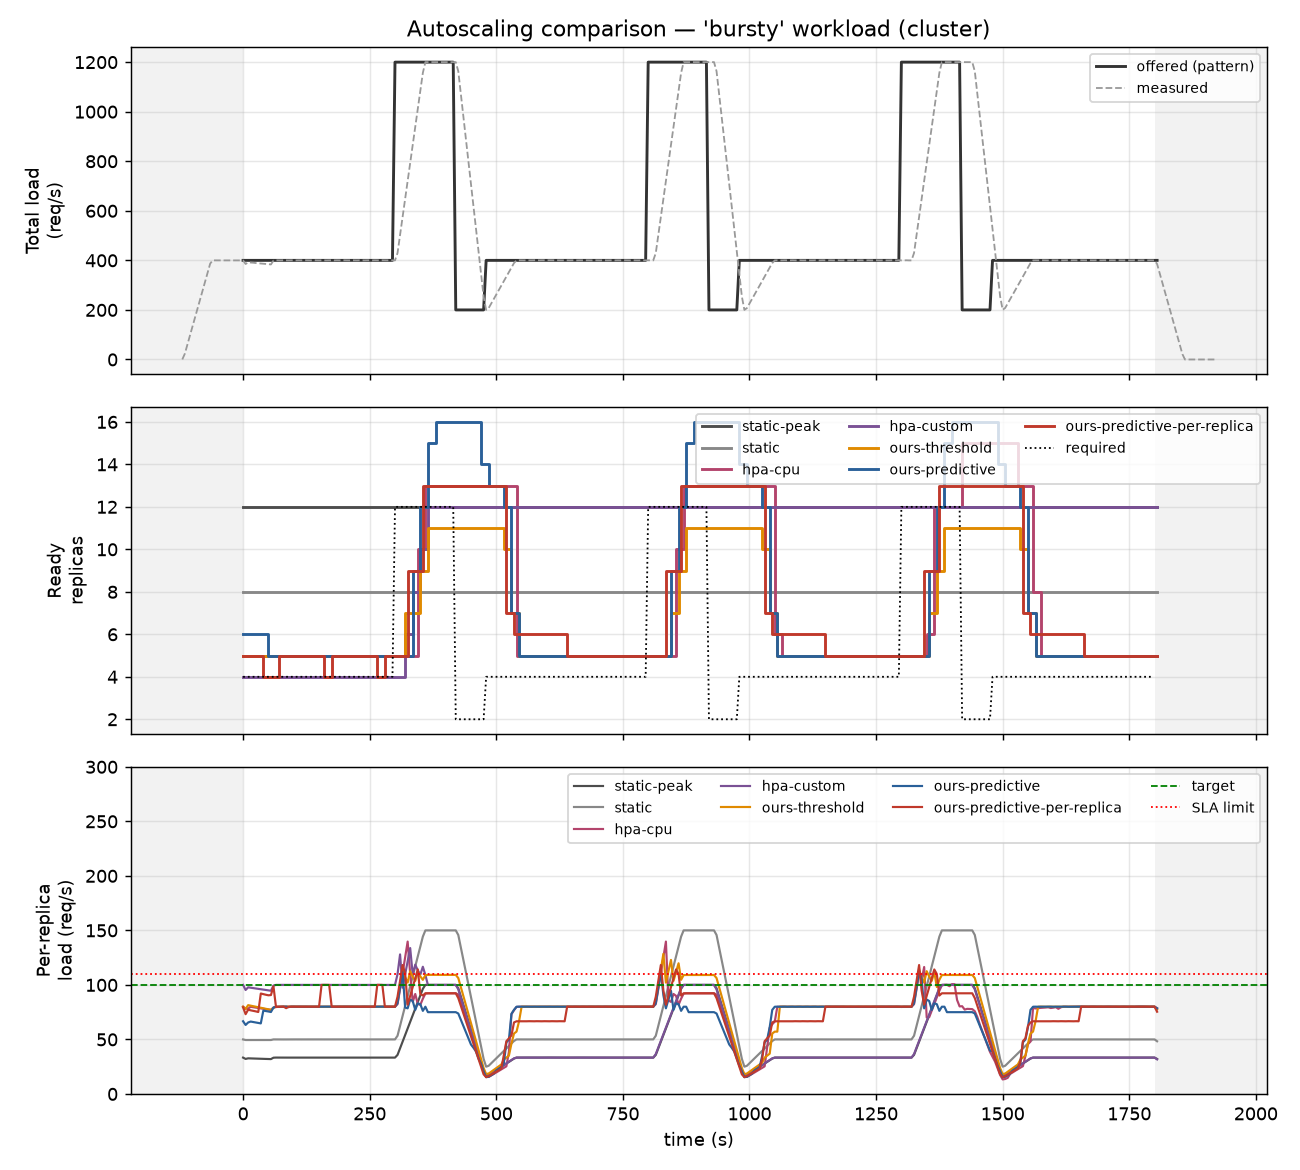
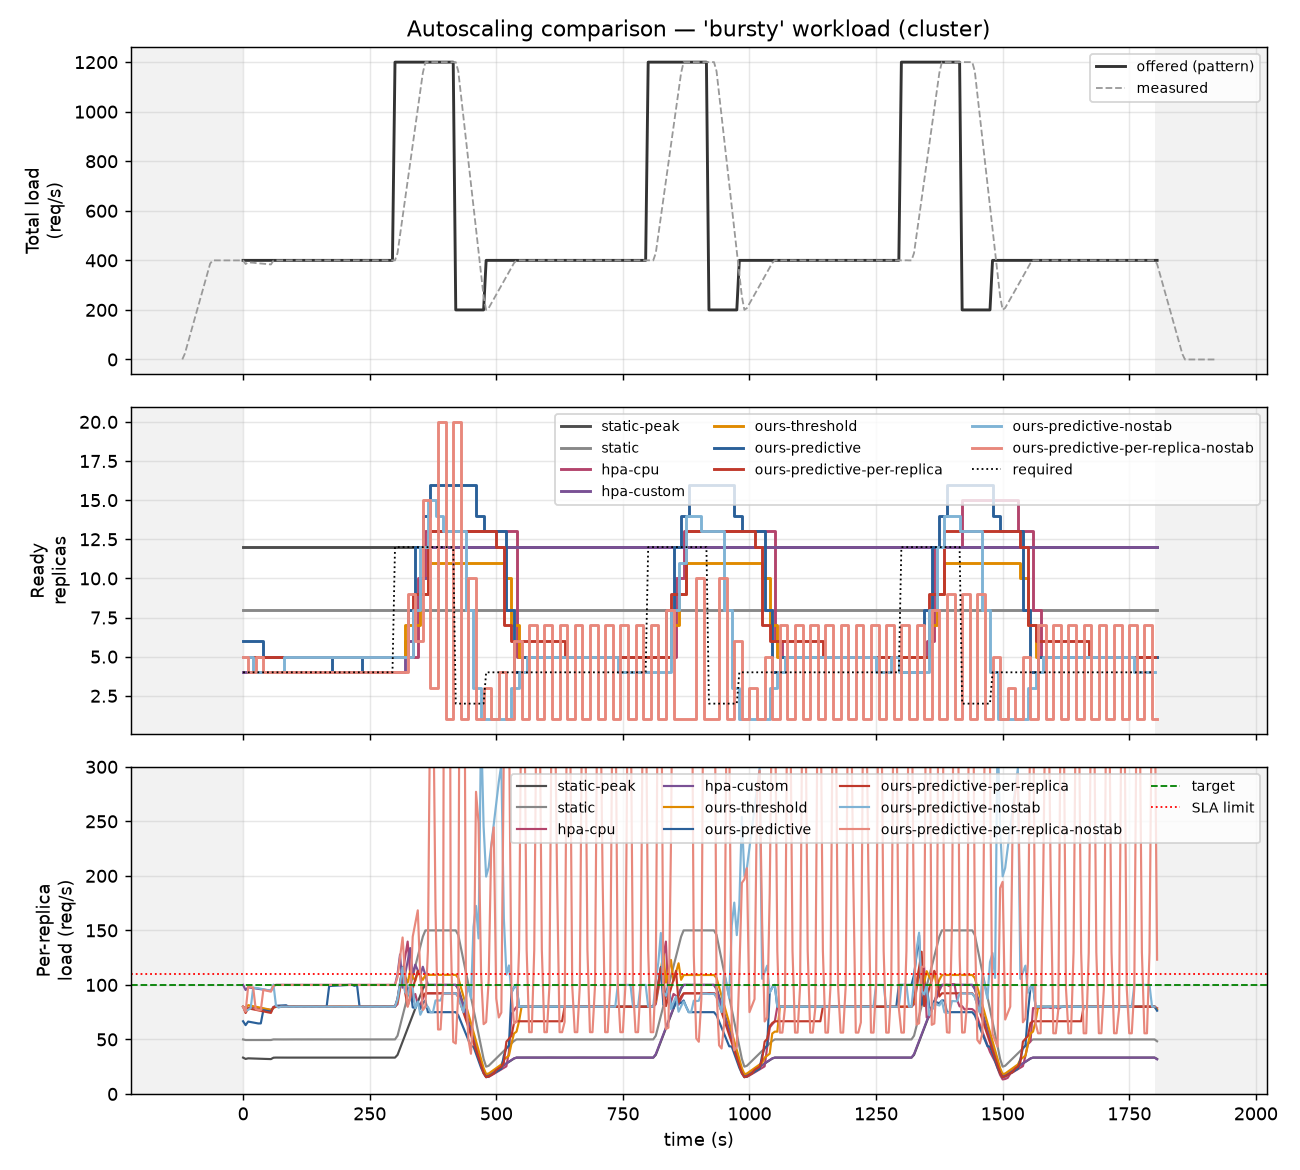
Repeats withdraw the bursty claim; the stabilizer ablation replaces it
Three independent runs per arm on spike and bursty. bursty reversals are
per-replica 10, 6, 5 against ours-predictive 6, 7, 9 -- fully overlapping, and
per-replica is slightly lower. 11.12's 10-vs-6 was an n=1 artifact and is
withdrawn. spike is 14, 4, 14 against 3, 5, 7, which separates on two runs of
three but not at n=3, so 11.11 is requalified rather than withdrawn. The rule
this leaves: a gap smaller than one arm's spread against itself is not a gap.

Phase 7.1 makes the same point on an effect roughly ten times that spread.
With stabilization_window_seconds: 0 and nothing else changed,
ours-predictive-per-replica reaches 50.8% SLA violations on spike, 42.8% on
bursty, 39.5% on ramp, with 60 scale-ups and 60 scale-downs over 120
reconciles -- a direction reversal every control interval. ours-predictive
undamped stays at 4.1 / 13.0 / 0.0%. Damped, the broken policy scores 0.0% on
ramp and passes every check in the suite.

So the defensible claim is that a 90-second stabilization window masks a
fundamentally broken control law well enough that it passes every SLA and cost
test. That closes open question 1, and it explains why the broken variant
looked fine on diurnal: the stabilizer was doing the work, and a smooth
workload asks little of it.

Corrections are marked next to the original claims in 11.11 and 11.12, both
values kept.

Changed region(s): [[0.1846, 0.3385, 0.9538, 0.6154], [0.1846, 0.6462, 0.8923, 0.9231], [0.0308, 0.3385, 0.0923, 0.6154]]

diff --git a/docs/lab-notebook.md b/docs/lab-notebook.md
@@ -960,6 +960,12 @@ of scaling at all than anything `ramp` produced.
 
 ### 11.11 The per-replica pathology is real, and `diurnal` does not show it — 2026-08-12
 
+> **Correction, 2026-08-13 (§11.13).** The `spike` reversal counts below are n=1. Repeated
+> three times, `ours-predictive-per-replica` gives **14, 4, 14** and `ours-predictive` gives
+> **3, 5, 7** — overlapping ranges. The 14-vs-3 comparison stands as an observation but is
+> not significant at n=3, and the evaluation chapter must not lean on it. The *mechanism*
+> claim survives, on the stronger evidence in §11.13.
+
 `diurnal` and `spike` are both seven-for-seven. Twenty-one of twenty-eight arms are measured,
 all valid, no failed runs. `bursty` is the last pattern outstanding.
 
@@ -1014,6 +1020,14 @@ is simply too long to see the decrease, since a controller that only ratchets up
 finding about the configuration and not about custom metrics as an approach.
 
 ### 11.12 Phase 6 measurement complete — 2026-08-12
+
+> **Correction, 2026-08-13 (§11.13).** Two claims below are withdrawn. (1) The `bursty`
+> reversal count of **10 vs 6** is an n=1 artifact: repeated three times it is per-replica
+> **10, 6, 5** against `ours-predictive` **6, 7, 9** — fully overlapping, per-replica
+> slightly *lower*. `bursty` does not show the pathology. (2) Every latency figure in this
+> section and everything derived from `hpa-custom` is invalid, because the load generator
+> was not reaching the fleet (§11.13). SLA %, replica-seconds and reversal counts are
+> arithmetically unaffected and are retained.
 
 **Twenty-eight of twenty-eight arms measured, every one valid.** Four workloads x seven arms,
 all at `TIME_SCALE=1`, every measurement window 1800-1802 s against an expected 1800. The two
@@ -1094,3 +1108,116 @@ The practical consequence for Phase 7: **the simulator can be used to reason abo
 configurations on smooth workloads, but its ordering on step workloads is not trustworthy and
 any sweep result there needs a cluster spot-check.** That is a narrower licence than §11.9
 anticipated, and it is better to state it than to have it found.
+
+### 11.13 The load never reached the fleet — 2026-08-13
+
+**Every run in this project up to and including 2026-08-12 delivered its load to three or
+four pods, no matter how many replicas were running.** This is the most serious measurement
+defect found so far, and the part of it that is *not* damaged is as important as the part
+that is, so both are set out below.
+
+`k6` uses HTTP keep-alive by default. Each VU holds one TCP connection for its lifetime, and
+a connection pins to whichever backend pod `kube-proxy` chose when it was opened. The sample
+app answers in about 2.4 ms, so `ramping-arrival-rate` never needed more than a handful of
+concurrent VUs to sustain 1300 req/s — and a handful of VUs is a handful of connections is a
+handful of pods. Nothing in the harness reported this, because k6 was delivering the full
+requested rate and every request returned 200.
+
+A controlled A/B at 800 req/s against 8 replicas, the same script either side:
+
+| | pods serving | delivered | p95 latency |
+|---|---|---|---|
+| keep-alive (every run to date) | **1 of 8** | 508/800 | **1.5 s** |
+| `noConnectionReuse: true` | **7 of 8** | 800/800 | 2.71 ms |
+
+Confirmed against archived runs rather than inferred: `spike/ours-predictive` had 4 pods
+serving of 14 ready, `spike/ours-predictive-per-replica` 3 of 14, `bursty/ours-predictive`
+4 of 16. Prometheus held three `http_requests_total` series while `up{app="sample"}` counted
+13. **Raising `preAllocatedVUs` does not fix it** — an 800-VU run still landed on one pod;
+the connections are allocated lazily and the fast responses mean few are ever live at once.
+`noConnectionReuse` is the only knob that produces fan-out on this host. After the fix a
+harness run showed 13 of 13 pods serving.
+
+**What survives, checked directly rather than assumed.** The autoscaler's input is
+
+    sum(rate(http_requests_total{app="sample"}[1m])) / clamp_min(count(up{app="sample"} == 1), 1)
+
+Both halves were queried against Prometheus mid-run: numerator 1299.99 (the true offered
+total) and denominator 13 (the true ready count). The numerator is a `sum` over all series
+and the denominator counts `up` targets, so neither depends on *which* pods served. **SLA
+violation %, replica-seconds, under/over-provisioning, scale up/down counts and reversal
+counts are arithmetically unaffected and are retained.**
+
+**What is invalid:**
+
+- **Every latency number in this notebook.** p95 sat at ~2.4 ms in all thirty-odd runs
+  because it measured three or four unsaturated pods regardless of arm. No latency claim can
+  be made from Phase 6 data.
+- **`hpa-custom`, entirely, on all four patterns.** It is the only arm consuming *per-pod*
+  metrics. It saw 3 pods of 13 and read `averageValue` 433 against a target of 100. This also
+  resolves §11.12's open hypothesis: the missing-metrics rule fired exactly as suspected, but
+  the missing metrics were an artifact of the load generator, not of the adapter or the rate
+  window. That explains **0 scale-downs on all four workloads**. The arm needs re-measuring.
+- **Any claim that adding replicas serves more traffic.** The SLA metric is a model-based
+  proxy computed from total load and ready count; nothing in Phase 6 physically corroborates
+  it. §11 always said this, but it now has to be said louder.
+
+The fix is `CONNECTION_OPTIONS = { noConnectionReuse: true }` in `test/load/lib/patterns.js`,
+spread into all four pattern scripts and into `warmup.js` — the warmup must share the
+connection model or the measured window opens by unwinding a false equilibrium. It changes
+the load model: per-request connection setup is charged to both ends, which is less like a
+real keep-alive client. That cost is accepted, because the alternative is not measuring the
+fleet at all. `run.sh` now records `load_contract: "per-request-connections-v2"` in every
+`run.json`, so the two generations of run can never be silently read as one series.
+
+### 11.14 Three repeats withdraw one claim and Phase 7.1 replaces it — 2026-08-13
+
+**Repeats first, because they set the resolution of everything else.** Three independent
+`TIME_SCALE=1` runs per arm on `spike` and on `bursty`. `analyze.py` grew a Repeatability
+section that lists every run rather than averaging them; at n=3 a mean hides more than it
+shows. (It also had a latent bug worth recording: it kept only the newest run per
+(pattern, arm) pair, so the repeats would have been silently discarded at load time.)
+
+Direction reversals:
+
+| Workload | `ours-predictive-per-replica` | `ours-predictive` |
+|---|---|---|
+| `spike` | 14, 4, 14 | 3, 5, 7 |
+| `bursty` | 10, 6, 5 | 6, 7, 9 |
+
+**`bursty` is withdrawn** — the ranges overlap completely and per-replica is slightly lower.
+`spike` still separates on two of three runs but a run of 4 sits inside the predictive arm's
+range, so it is an observation, not a result. The rule this establishes and that the
+evaluation chapter must respect: **a difference between two arms smaller than the spread of
+one arm against itself is not a difference.**
+
+**Phase 7.1 makes the claim on a much larger effect.** The two predictive policies re-run
+with `stabilization_window_seconds: 0` — the damper removed, everything else identical:
+
+| Pattern | Arm | SLA | Replica-s | Scale ↑/↓ | Reversals |
+|---|---|---:|---:|---:|---:|
+| `spike` | per-replica-nostab | **50.8%** | 1,810 | 60/60 | **119** |
+| `spike` | predictive-nostab | 4.1% | 12,355 | 28/28 | 43 |
+| `bursty` | per-replica-nostab | **42.8%** | 7,685 | 49/50 | **98** |
+| `bursty` | predictive-nostab | 13.0% | 10,270 | 27/23 | 21 |
+| `ramp` | per-replica-nostab | **39.5%** | 7,360 | 60/60 | **119** |
+| `ramp` | predictive-nostab | 0.0% | 13,395 | 16/7 | 12 |
+
+An 1800 s run at a 15 s interval is 120 reconciles. **60 up and 60 down means the controller
+reverses direction at every single control interval** — not oscillation as a tendency but as
+a fixed point. The analyzer independently flags the autoscaler's own per-replica metric
+diverging from observed load by 86–135%, which is the feedback signature §3.3 predicted.
+Damped by the same 90 s stabilizer, this identical policy scores 0.0% on `ramp` and 0.6% on
+`spike` and passes every check in the evaluation.
+
+**The claim to build the thesis on: a 90-second stabilization window masks a fundamentally
+broken control law well enough that it passes every SLA and cost test in the suite.** It
+answers open question 1. It is preferable to the original claim in three ways — the effect is
+roughly ten times the measured spread rather than inside it, it does not rest on reversal
+counts at n=1, and it explains *why* the broken policy looked fine on `diurnal` in §11.12
+(the stabilizer was doing the work, and a smooth workload asks little of it).
+
+These runs share the broken load contract of §11.13. The claim concerns the controller's own
+dynamics rather than load delivery, and SLA % and replica-seconds are in the unaffected set,
+so it should survive re-measurement — but it has not yet been re-measured and the chapter
+should not say otherwise until it has.

diff --git a/experiments/results/summary.md b/experiments/results/summary.md
@@ -12,8 +12,10 @@ Generated by `experiments/analyze.py` from the raw captures in
 | `bursty` | `hpa-cpu` | 2.5% | 13,880 | 1,200 | 2.4 ms |
 | `bursty` | `hpa-custom` | 1.7% | 18,980 | 340 | 2.4 ms |
 | `bursty` | `ours-threshold` | 3.3% | 12,365 | 1,410 | 2.4 ms |
-| `bursty` | `ours-predictive` | 0.8% | 14,545 | 1,080 | 2.4 ms |
-| `bursty` | `ours-predictive-per-replica` | 2.5% | 13,715 | 1,005 | 2.4 ms |
+| `bursty` | `ours-predictive` | 1.1% | 14,385 | 960 | 2.4 ms |
+| `bursty` | `ours-predictive-per-replica` | 1.9% | 13,465 | 1,215 | 2.4 ms |
+| `bursty` | `ours-predictive-nostab` | 13.0% | 10,270 | 1,805 | 2.4 ms |
+| `bursty` | `ours-predictive-per-replica-nostab` | 42.8% | 7,685 | 4,145 | 2.4 ms |
 | `diurnal` | `static-peak` | 0.0% | 21,720 | 0 | 2.4 ms |
 | `diurnal` | `static` | 40.3% | 14,480 | 2,490 | 2.4 ms |
 | `diurnal` | `hpa-cpu` | 0.0% | 15,570 | 370 | 2.4 ms |
@@ -28,13 +30,17 @@ Generated by `experiments/analyze.py` from the raw captures in
 | `ramp` | `ours-threshold` | 4.1% | 11,810 | 1,460 | 2.5 ms |
 | `ramp` | `ours-predictive` | 0.0% | 13,515 | 270 | 2.4 ms |
 | `ramp` | `ours-predictive-per-replica` | 0.0% | 12,900 | 885 | 2.5 ms |
+| `ramp` | `ours-predictive-nostab` | 0.0% | 13,395 | 200 | 2.5 ms |
+| `ramp` | `ours-predictive-per-replica-nostab` | 39.5% | 7,360 | 6,540 | 2.5 ms |
 | `spike` | `static-peak` | 0.0% | 23,530 | 0 | 2.4 ms |
 | `spike` | `static` | 32.9% | 14,480 | 3,000 | 2.4 ms |
 | `spike` | `hpa-cpu` | 1.7% | 13,915 | 480 | 2.4 ms |
-| `spike` | `hpa-custom` | 2.8% | 17,105 | 425 | 2.4 ms |
+| `spike` | `hpa-custom` | 2.8% | 17,055 | 475 | 2.4 ms |
 | `spike` | `ours-threshold` | 2.5% | 11,925 | 1,095 | 2.4 ms |
-| `spike` | `ours-predictive` | 0.3% | 14,085 | 405 | 2.4 ms |
-| `spike` | `ours-predictive-per-replica` | 0.8% | 13,900 | 390 | 2.4 ms |
+| `spike` | `ours-predictive` | 0.6% | 14,280 | 270 | 2.4 ms |
+| `spike` | `ours-predictive-per-replica` | 0.6% | 13,900 | 390 | 2.4 ms |
+| `spike` | `ours-predictive-nostab` | 4.1% | 12,355 | 465 | 2.4 ms |
+| `spike` | `ours-predictive-per-replica-nostab` | 50.8% | 1,810 | 9,620 | 2.5 ms |
 
 ## Simulator vs cluster — ordering agreement
 
@@ -45,7 +51,7 @@ so its magnitudes are not expected to match the cluster's.
 | Workload | Metric | Simulator order | Cluster order | Agrees |
 |---|---|---|---|---|
 | `bursty` | SLA violations | ours-threshold < ours-predictive < static | ours-predictive < ours-threshold < static | **no** |
-| `bursty` | Replica-seconds | ours-threshold < static < ours-predictive | ours-threshold < static < ours-predictive | yes |
+| `bursty` | Replica-seconds | ours-threshold < static < ours-predictive | ours-threshold < ours-predictive < static | **no** |
 | `diurnal` | SLA violations | ours-predictive < ours-threshold < static | ours-predictive < ours-threshold < static | yes |
 | `diurnal` | Replica-seconds | static < ours-threshold < ours-predictive | static < ours-threshold < ours-predictive | yes |
 | `ramp` | SLA violations | ours-predictive < ours-threshold < static | ours-predictive < ours-threshold < static | yes |
@@ -65,8 +71,13 @@ averaged, because at n=2-3 a mean hides more than it shows.
 
 | Workload | Arm | n | SLA violations % | Replica-seconds | Reversals | Reaction (median) s |
 |---|---|---:|---|---|---|---|
+| `bursty` | `ours-predictive` | 3 | 0.8, 0.3, 1.1  (Δ0.8) | 14,545, 14,545, 14,385  (Δ160) | 6, 7, 9  (Δ3) | 25.0, 25.0, 20.0  (Δ5.0) |
+| `bursty` | `ours-predictive-per-replica` | 3 | 2.5, 2.2, 1.9  (Δ0.5) | 13,715, 13,760, 13,465  (Δ295) | 10, 6, 5  (Δ5) | 27.5, 30.0, 32.5  (Δ5.0) |
 | `ramp` | `ours-threshold` | 2 | 5.2, 4.1  (Δ1.1) | 12,050, 11,810  (Δ240) | 0, 0  (Δ0) | 125.0, 110.0  (Δ15.0) |
 | `ramp` | `static` | 2 | 35.5, 35.6  (Δ0.2) | 14,440, 14,480  (Δ40) | 0, 0  (Δ0) | 0.0, 0.0  (Δ0.0) |
+| `spike` | `hpa-custom` | 2 | 2.8, 2.8  (Δ0.0) | 17,105, 17,055  (Δ50) | 0, 0  (Δ0) | 65.0, 70.0  (Δ5.0) |
+| `spike` | `ours-predictive` | 3 | 0.3, 0.8, 0.6  (Δ0.6) | 14,085, 14,350, 14,280  (Δ265) | 3, 5, 7  (Δ4) | 65.0, 60.0, 35.0  (Δ30.0) |
+| `spike` | `ours-predictive-per-replica` | 3 | 0.8, 0.6, 0.6  (Δ0.3) | 13,900, 14,030, 13,900  (Δ130) | 14, 4, 14  (Δ10) | 60.0, 55.0, 60.0  (Δ5.0) |
 
 ## Excluded runs
 
@@ -77,3 +88,4 @@ averaged, because at n=2-3 a mean hides more than it shows.
 | `ramp__ours-predictive__20260809T125157Z` | sample-app restarted -1 time(s) during the run: metric history is destroyed and the fleet was serving degraded (§6.2); k6 dropped 284532 of 1244998 iterations (>1%): offered load was below the pattern, which flatters the arm |
 | `ramp__static-peak__20260810T073824Z` | spec.replicas changed 1 times under the static-peak arm: a controller is still attached |
 | `ramp__static-peak__20260810T082758Z` | (none recorded) |
+| `spike__ours-predictive-per-replica-nostab__20260812T140645Z` | (none recorded) |

diff --git a/experiments/results/table_spike.md b/experiments/results/table_spike.md
@@ -8,12 +8,16 @@ Measurement window only; warmup and settle excluded. Required replicas are
 | `static-peak` | 0.0% | 23,530 | 0 | 12,100 | 2,464.3 | 0.0 s | 0/0 | 0 | 2.4 ms |
 | `static` | 32.9% | 14,480 | 3,000 | 6,050 | 2,449.5 | — s | 0/0 | 0 | 2.4 ms |
 | `hpa-cpu` | 1.7% | 13,915 | 480 | 2,965 | 2,409.9 | 60.0 s | 3/4 | 1 | 2.4 ms |
-| `hpa-custom` | 2.8% | 17,105 | 425 | 6,100 | 2,399.7 | 65.0 s | 4/0 | 0 | 2.4 ms |
+| `hpa-custom` | 2.8% | 17,055 | 475 | 6,100 | 2,414.3 | 70.0 s | 4/0 | 0 | 2.4 ms |
 | `ours-threshold` | 2.5% | 11,925 | 1,095 | 1,590 | 2,404.5 | — s | 3/4 | 1 | 2.4 ms |
-| `ours-predictive` | 0.3% | 14,085 | 405 | 3,060 | 2,438.6 | 65.0 s | 5/7 | 3 | 2.4 ms |
-| `ours-predictive-per-replica` | 0.8% | 13,900 | 390 | 2,860 | 2,407.6 | 60.0 s | 9/9 | 14 | 2.4 ms |
+| `ours-predictive` | 0.6% | 14,280 | 270 | 3,120 | 2,440.2 | 35.0 s | 7/9 | 7 | 2.4 ms |
+| `ours-predictive-per-replica` | 0.6% | 13,900 | 390 | 2,860 | 2,419.9 | 60.0 s | 9/9 | 14 | 2.4 ms |
+| `ours-predictive-nostab` | 4.1% | 12,355 | 465 | 1,390 | 2,365.3 | 60.0 s | 28/28 | 43 | 2.4 ms |
+| `ours-predictive-per-replica-nostab` | 50.8% | 1,810 | 9,620 | 0 | 1,356.9 | — s | 60/60 | 119 | 2.5 ms |
 
 Notes:
 
 - `static`: never reached 13 ready replicas after the step at t=600s
 - `ours-threshold`: never reached 13 ready replicas after the step at t=600s
+- `ours-predictive-per-replica-nostab`: never reached 13 ready replicas after the step at t=600s
+- `ours-predictive-per-replica-nostab`: per_replica_rps and autoscaler_metric_value differ by 135% (median)

diff --git a/experiments/results/table_bursty.md b/experiments/results/table_bursty.md
@@ -10,8 +10,10 @@ Measurement window only; warmup and settle excluded. Required replicas are
 | `hpa-cpu` | 2.5% | 13,880 | 1,200 | 5,320 | 2,085.5 | 30.0 s | 7/6 | 5 | 2.4 ms |
 | `hpa-custom` | 1.7% | 18,980 | 340 | 9,560 | 2,079.7 | 0.0 s | 4/0 | 0 | 2.4 ms |
 | `ours-threshold` | 3.3% | 12,365 | 1,410 | 4,015 | 2,088.1 | 0.0 s | 9/9 | 5 | 2.4 ms |
-| `ours-predictive` | 0.8% | 14,545 | 1,080 | 5,865 | 2,080.9 | 25.0 s | 12/16 | 6 | 2.4 ms |
-| `ours-predictive-per-replica` | 2.5% | 13,715 | 1,005 | 4,960 | 2,072.5 | 27.5 s | 9/12 | 10 | 2.4 ms |
+| `ours-predictive` | 1.1% | 14,385 | 960 | 5,585 | 2,070.4 | 20.0 s | 16/15 | 9 | 2.4 ms |
+| `ours-predictive-per-replica` | 1.9% | 13,465 | 1,215 | 4,940 | 2,077.2 | 32.5 s | 6/12 | 5 | 2.4 ms |
+| `ours-predictive-nostab` | 13.0% | 10,270 | 1,805 | 2,335 | 2,026.6 | 67.5 s | 27/23 | 21 | 2.4 ms |
+| `ours-predictive-per-replica-nostab` | 42.8% | 7,685 | 4,145 | 2,070 | 1,635.4 | 12.5 s | 49/50 | 98 | 2.4 ms |
 
 Notes:
 
@@ -21,3 +23,6 @@ Notes:
 - `ours-threshold`: never reached 12 ready replicas after the step at t=300s
 - `ours-threshold`: never reached 12 ready replicas after the step at t=800s
 - `ours-threshold`: never reached 12 ready replicas after the step at t=1300s
+- `ours-predictive-per-replica-nostab`: never reached 12 ready replicas after the step at t=800s
+- `ours-predictive-per-replica-nostab`: never reached 12 ready replicas after the step at t=1300s
+- `ours-predictive-per-replica-nostab`: per_replica_rps and autoscaler_metric_value differ by 86% (median)

diff --git a/experiments/results/table_ramp.md b/experiments/results/table_ramp.md
@@ -12,6 +12,8 @@ Measurement window only; warmup and settle excluded. Required replicas are
 | `ours-threshold` | 4.1% | 11,810 | 1,460 | 0 | 2,476.7 | 110.0 s | 8/0 | 0 | 2.5 ms |
 | `ours-predictive` | 0.0% | 13,515 | 270 | 575 | 2,585.1 | 30.0 s | 10/0 | 0 | 2.4 ms |
 | `ours-predictive-per-replica` | 0.0% | 12,900 | 885 | 515 | 2,475.9 | 87.5 s | 11/3 | 5 | 2.5 ms |
+| `ours-predictive-nostab` | 0.0% | 13,395 | 200 | 325 | 2,482.3 | 20.0 s | 16/7 | 12 | 2.5 ms |
+| `ours-predictive-per-replica-nostab` | 39.5% | 7,360 | 6,540 | 630 | 1,496.6 | 10.0 s | 60/60 | 119 | 2.5 ms |
 
 Notes:
 
@@ -20,3 +22,7 @@ Notes:
 - `static`: never reached 11 ready replicas after the step at t=1265s
 - `static`: never reached 12 ready replicas after the step at t=1385s
 - `ours-threshold`: never reached 12 ready replicas after the step at t=1385s
+- `ours-predictive-per-replica-nostab`: never reached 10 ready replicas after the step at t=1145s
+- `ours-predictive-per-replica-nostab`: never reached 11 ready replicas after the step at t=1265s
+- `ours-predictive-per-replica-nostab`: never reached 12 ready replicas after the step at t=1385s
+- `ours-predictive-per-replica-nostab`: per_replica_rps and autoscaler_metric_value differ by 88% (median)
